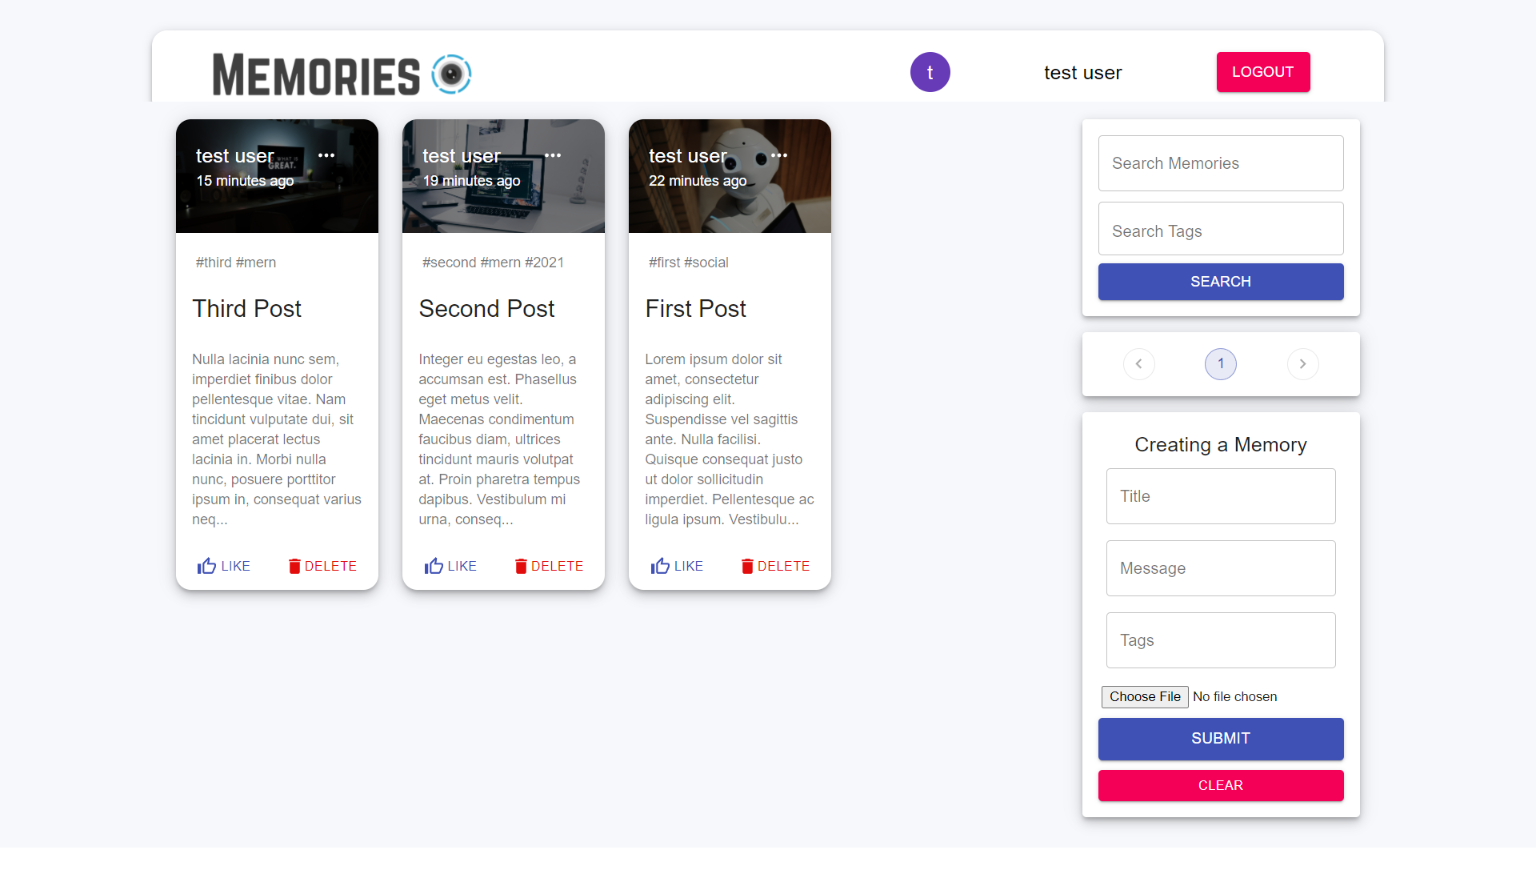
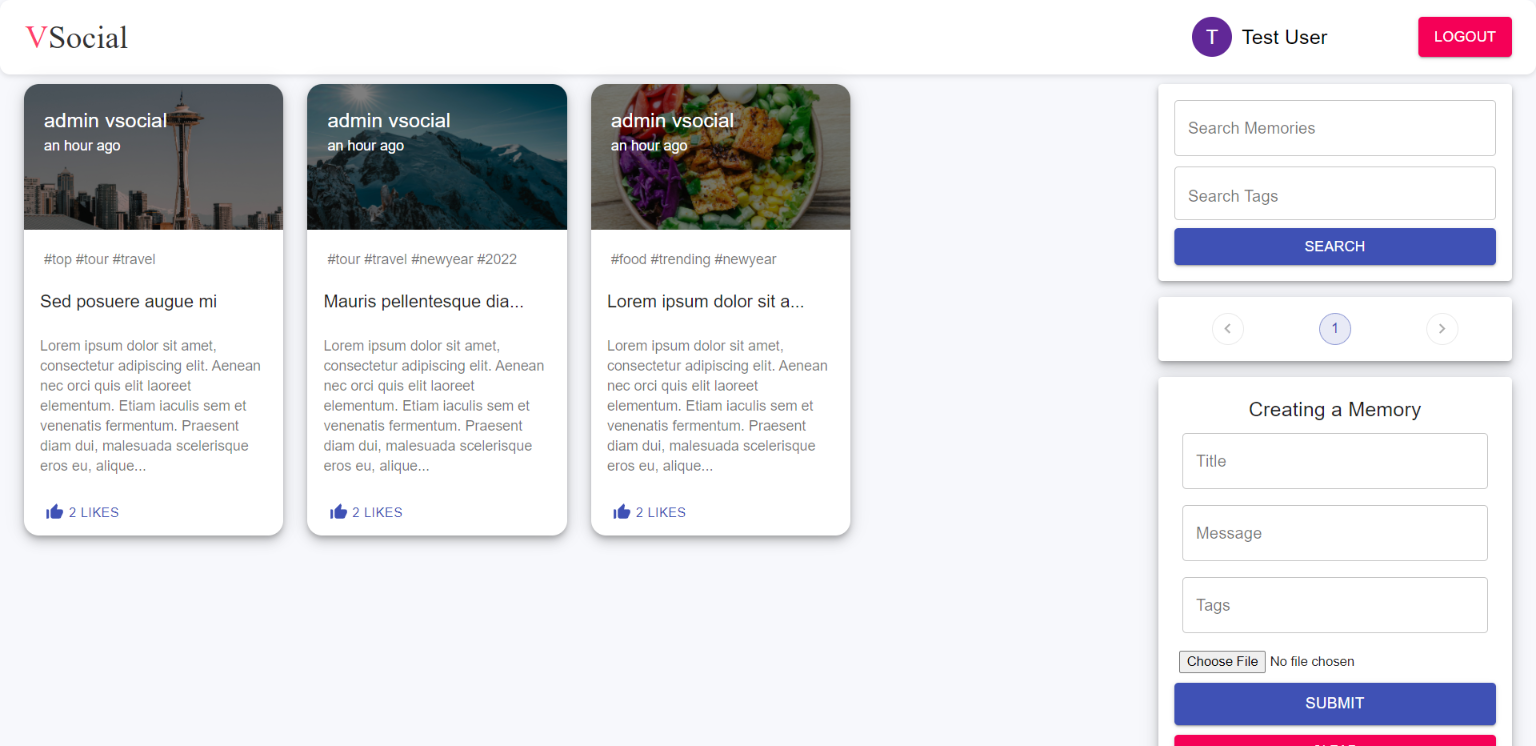
fix: urls

diff --git a/data.ts b/data.ts
@@ -79,11 +79,11 @@ export const projects: IProject[] = [
   },
   {
     id: 2,
-    name: "Memories Social Media App",
-    desc: "MERN Stack app where user can create account, post memories, like, comment on others post. Also added features like authentication, middlewares, pagination, related posts and many more.",
+    name: "VSocial Social Media App",
+    desc: "MERN Stack app where user can create account, post stuff, like, comment on others post. Also added features like authentication, middlewares, pagination, related posts and many more.",
     img: "mern-stack.png",
-    source: "https://socialmemories.netlify.app/",
-    github: "https://github.com/Vibhav-Salelkar/memories-crud",
+    source: "https://vsocialmedia.netlify.app/",
+    github: "https://github.com/Vibhav-Salelkar/vsocial",
     category: ['react','node','mongo','javascript/typescript'],
     tech: ['MongoDB','Express','React','NodeJs'],
   },
